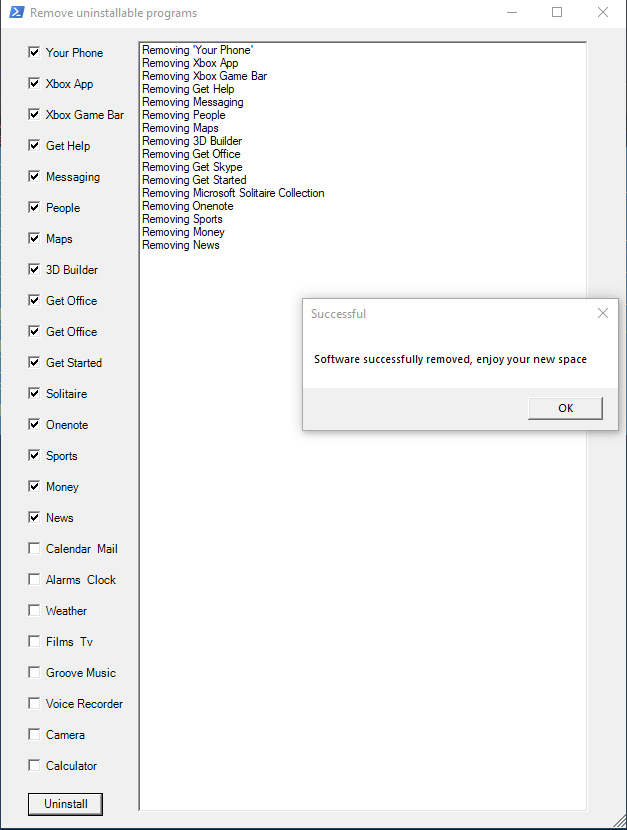
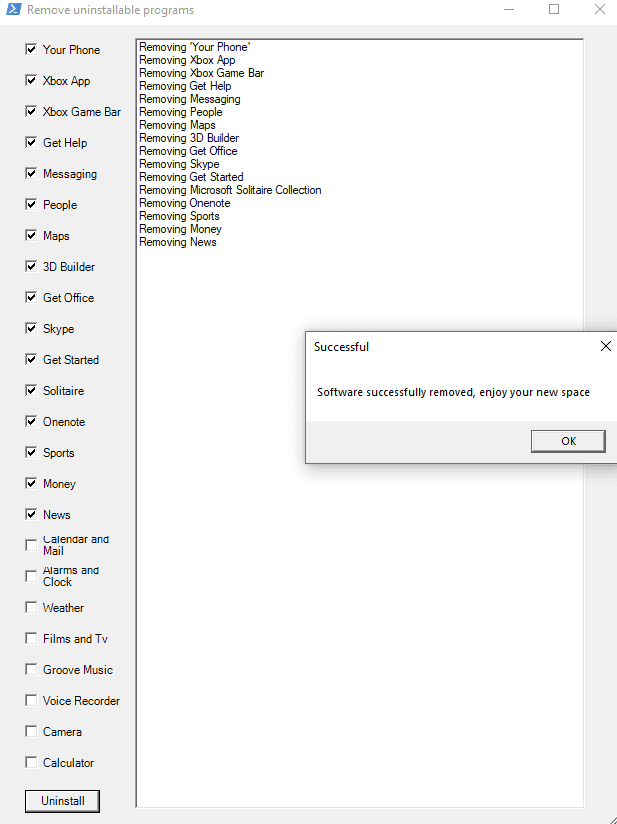
v1.0.0 readme done and powershell ready

diff --git a/README.md b/README.md
@@ -1,2 +1,66 @@
-# Remove-Not-Uninstallable-W10
-A Powershell script that lets you remove all these useless and not uninstallable programs in Windows 10
+# **Remove Software Not Uninstallable Windows 10**
+
+A Powershell script that lets you **remove useless** and not uninstallable programs in Windows 10 to **gain** disk **space** and **performance**.
+We currently support up to **24** programs.
+
+---
+
+## **Download** 📥📩
+
+- Direct **[download 1.0.0]()** of the script.
+- All the **[releases](https://github.com/Josee9988/Remove-Not-Uninstallable-W10/releases)**.
+
+---
+
+## **How to run the script** 🔩⚙
+
+Download the script, then right click it and '**Run with PowerShell**'.
+
+<img src="https://i.imgur.com/xh0u3ry.png" alt="run" title="run" style="border-radius:15px; box-shadow: 6px 6px  #282829; max-height: 750px; max-width:750px;margin-left: auto; margin-right:auto;display: block;margin-left: auto;margin-right:auto;width:75%;"/>
+
+## **Example of use** 📸 😁
+
+- Select and uninstall **useless software**, then click Uninstall!
+
+<img src="https://i.imgur.com/yZfDi8I.png" alt="example" title="example" style="border-radius:15px; box-shadow: 6px 6px  #282829; max-height: 750px; max-width:750px;margin-left: auto; margin-right:auto;display: block;margin-left: auto;margin-right:auto;width:75%;"/>
+
+---
+
+## **Software available** (24) 🧪🔥
+
+- **Your Phone**
+- **Xbox App**
+- **Xbox Game Bar**
+- **Get Help**
+- **Messaging**
+- **People**
+- **Maps**
+- **3D Builder**
+- **Get Office**
+- **Skype**
+- **Get Started**
+- **Solitaire**
+- **Onenote**
+- **Sports**
+- **Money**
+- **News**
+- **Calendar and Mail**
+- **Alarms and Clock**
+- **Weather**
+- **Films and TV**
+- **Groove Music**
+- **Voice Recorder**
+- **Camera**
+- **Calculator**
+
+---
+
+## **What if a program can not be uninstalled?:** 🛑🗑
+
+- It will simply display a red line in the PowerShell Window and Windows will not uninstall such program. So you won't need to worry about it.
+
+---
+
+> ⚠Remember that this script does not guarantee a 100% effectiveness and may have some issue at some point. Use it at your own risk and always do backups of your code. If any program is deleted you can always reinstall it on the [Windows Store](https://www.microsoft.com/store/apps/windows). But we always recommend to do backups of your important information in case of lost.⚠
+
+*Made with a lot of ❤❤ by **[@Josee9988](https://github.com/Josee9988)***
